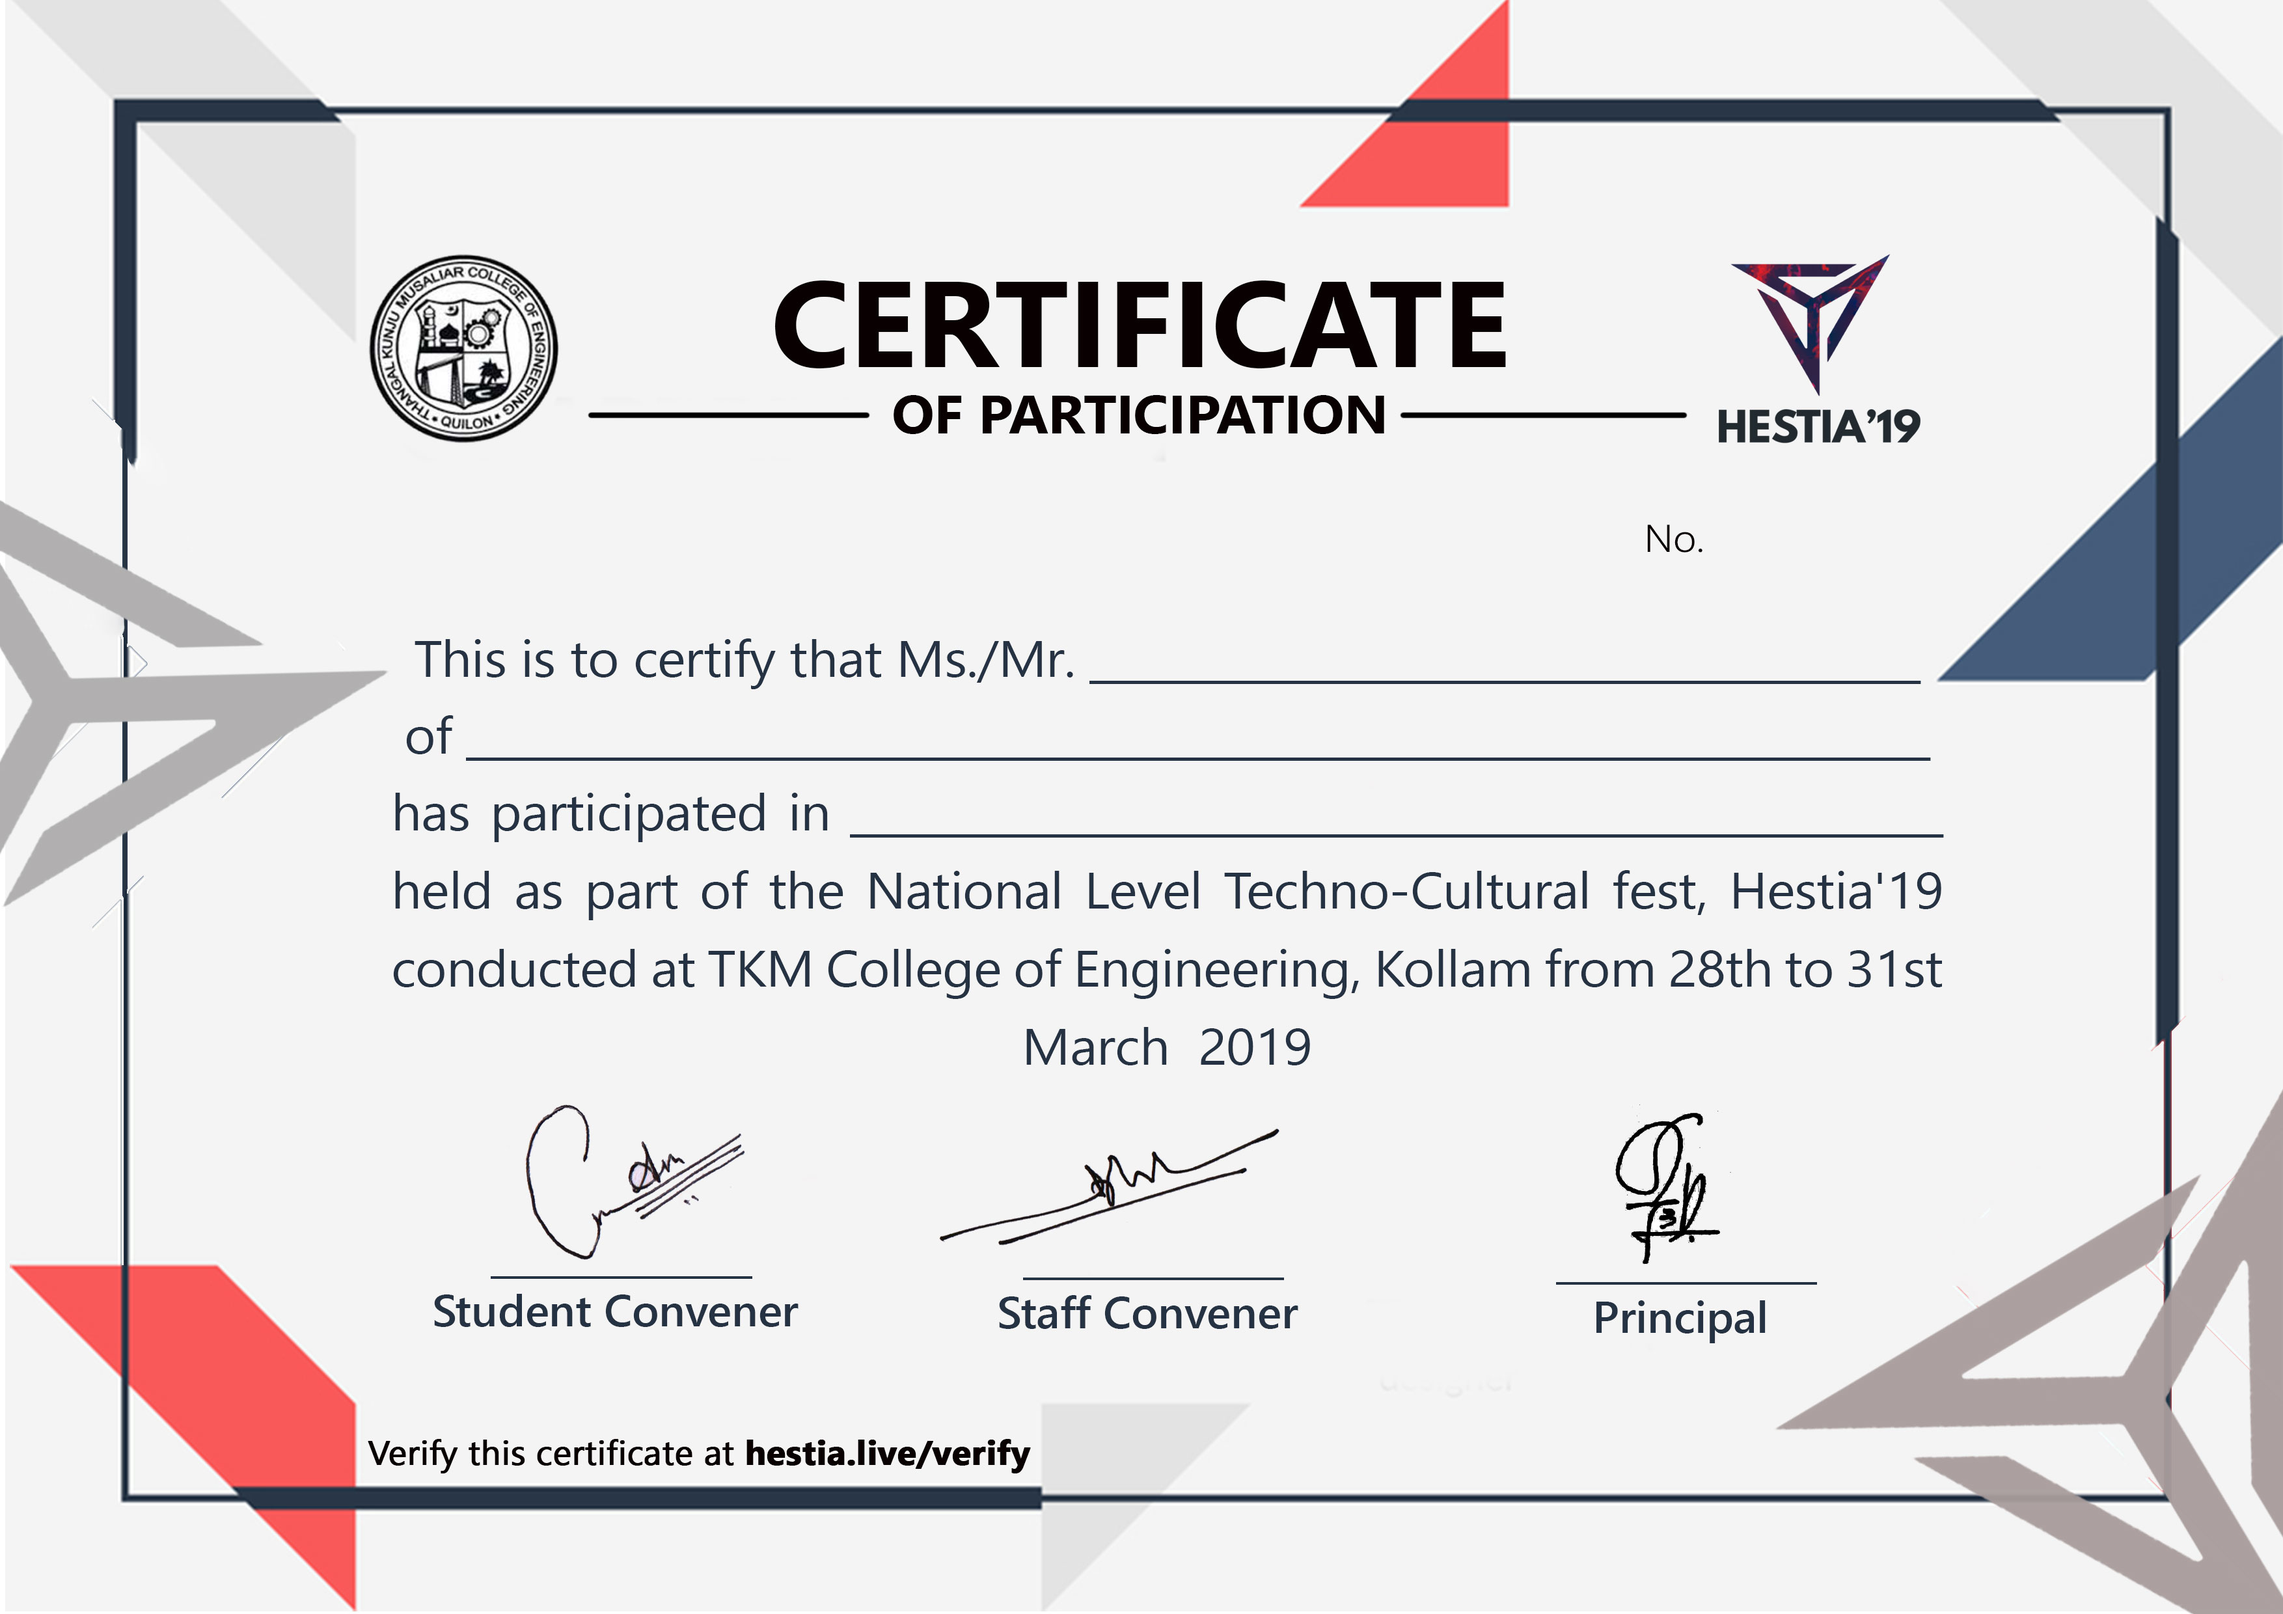
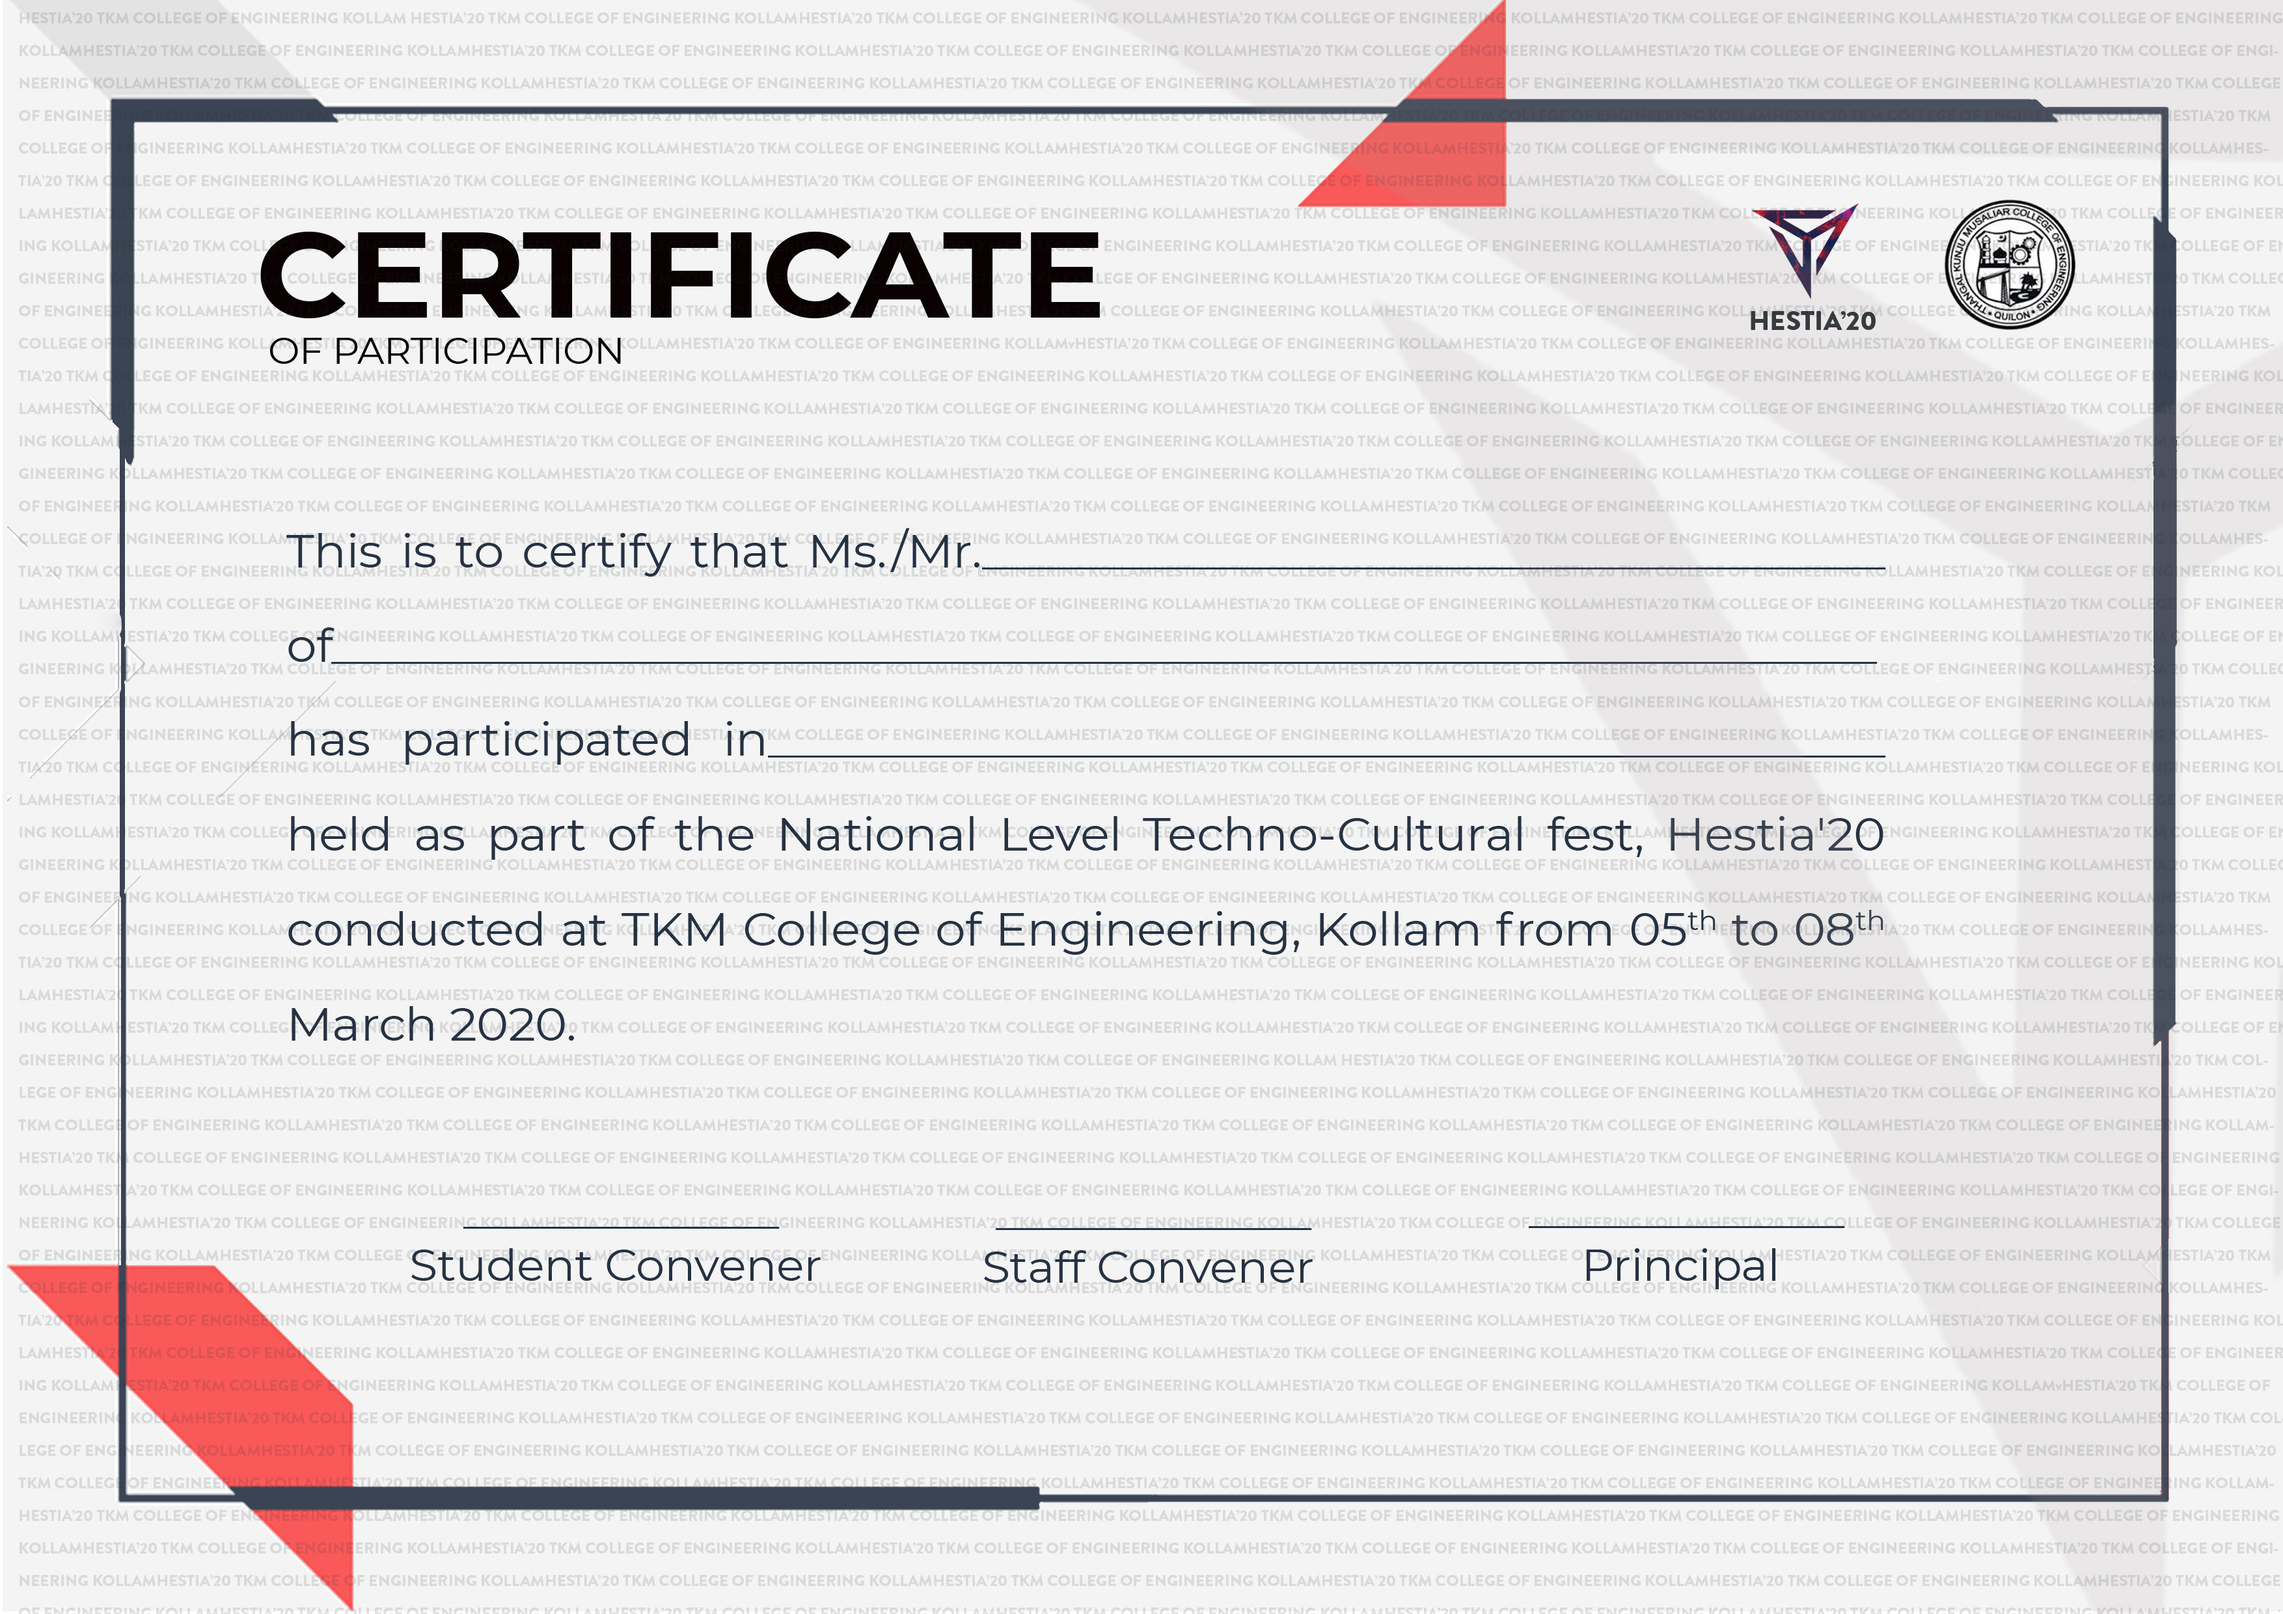
certificate

Changed region(s): [[0.0, 0.0, 1.0, 1.0], [0.9632, 0.0, 1.0, 0.0621]]

diff --git a/application/controllers/Certificate.php b/application/controllers/Certificate.php
@@ -32,6 +32,36 @@ class ZNW_PDF extends TCPDF {
     }
 }
 
+class ZNW_PDFAA extends TCPDF {
+
+    // Page header
+
+    public function Header() {
+
+        // Quelle: http://www.tcpdf.org/examples/example_051.phps
+        // get the current page break margin
+        $bMargin = $this->getBreakMargin();
+        // get current auto-page-break mode
+        $auto_page_break = $this->AutoPageBreak;
+        // disable auto-page-break
+        $this->SetAutoPageBreak(false, 0);
+        // set background image
+        $img_file = 'assets/certificate/appreciation.jpg';
+        $this->Image($img_file, 0, 0,  297,210, '', '', '', false, 300, '', false, false, 0);
+        // restore auto-page-break status
+        $this->SetAutoPageBreak($auto_page_break, $bMargin);
+        // set the starting point for the page content
+        $this->setPageMark();
+    }
+
+    // Page footer
+    public function Footer() {
+
+        // no special footer
+
+    }
+}
+
 class Certificate extends CI_Controller {
 
     public function Verify(){
@@ -108,21 +138,102 @@ $data['msg']="";
             $pdf->AddPage('L');
             $pdf->SetXY(0, 89);
             $html1="";
-            $html="<h3>$row->fullname</h3>";
+            $fullname="<h3>$row->fullname</h3>";
             $htmlcollege="<h3>$row->college</h3>";
             $htmlevent="<h3>$row->title</h3>";
-           $html1="<h3>H/19/$row->reg_id</h3>";
+           $certno="<h3>No.: H/20/$row->reg_id</h3>";
           //  $pdf->writeHTML($html, true, false, true, false, '');
-            $pdf->writeHTMLCell(380, 10, 142, 83, $html, 0, 1, 0, true, '', true);
-            $pdf->writeHTMLCell(380, 10, 62, 93, $htmlcollege, 0, 1, 0, true, '', true);
-            $pdf->writeHTMLCell(380, 10, 110, 103, $htmlevent, 0, 1, 0, true, '', true);
+            $pdf->writeHTMLCell(380, 10, 130, 68, $fullname, 0, 1, 0, true, '', true);
+            $pdf->writeHTMLCell(380, 10, 47, 81, $htmlcollege, 0, 1, 0, true, '', true);
+            $pdf->writeHTMLCell(380, 10, 102, 93, $htmlevent, 0, 1, 0, true, '', true);
 
-            $pdf->writeHTMLCell(300, 10, 223, 67, $html1, 0, 1, 0, true, '', true);
+            $pdf->writeHTMLCell(300, 10, 226, 47, $certno, 0, 1, 0, true, '', true);
 
             //$pdf->write2DBarcode("www.hestia.live/certificate/".$row->certificate_no, 'QRCODE,L', 20, 158, 30, 30, $style, 'N');
 
         }
 
-        $pdf->Output('Certificate.pdf', 'D');
+        $pdf->Output('Certificate.pdf', 'I');
+    }
+        public function Appreciation($eventid=-1)
+    {
+
+        //  header('Content-Type: application/pdf');
+        require_once('./application/libraries/Classes/TCPDF/tcpdf.php');
+
+// New PDF doc with class ZNW_PDF (Tools / Libraries / Project / znw_header_footer.php)
+// Header with background image (A4)
+        $pdf = new ZNW_PDFAA(PDF_PAGE_ORIENTATION, PDF_UNIT, PDF_PAGE_FORMAT, true, 'UTF-8', false);
+
+// set document information
+        $pdf->SetCreator(PDF_CREATOR);
+        $pdf->SetAuthor('HESTIA TKMCE');
+        $pdf->SetTitle('Certificate of Appreciation');
+        $pdf->SetSubject('Certificate');
+        $pdf->SetKeywords('Hestia 20 Appreciation Certificate');
+
+
+        //
+//        $pdf = new TCPDF(PDF_PAGE_ORIENTATION, PDF_UNIT, PDF_PAGE_FORMAT, true, 'UTF-8', false);
+//        $pdf->SetCreator(PDF_CREATOR);
+//        $pdf->SetTitle('Application Form');
+        $this->load->model('report_model');
+        if(isset($_SESSION['email'])){
+
+        }else{
+            return;
+        }
+        $records=$this->report_model->get_all_registrations_appreciation_certificate($_SESSION['email'], $eventid);
+       if(!$records){
+           echo "norec";
+           return;
+       }
+        $pdf->SetLeftMargin(100);
+        $pdf->SetTopMargin(80);
+        $pdf->SetProtection(array('modify'));
+
+        $style = array(
+            'border' => 1,
+            'padding' => 'auto',
+            'fgcolor' =>  array(0,0,0),
+            'bgcolor' => array(255,255,255)
+        );
+
+//        $pdf->setPrintHeader(false);
+//        $pdf->setPrintFooter(false);
+//        $img_file = 'uploads/certificate_bg.png';
+//        $pdf->Image($img_file, 10, 10, 210, 297, '', '', '', false, 300, '', false, false, 0);
+        foreach ($records as $row){
+            $pdf->AddPage('L');
+            $pdf->SetXY(0, 89);
+            $html1="";
+            $fullname="<h3><center>$row->fullname</center></h3>";
+            $htmlcollege="<h3>$row->college</h3>";
+            $htmlevent="<h3>$row->title</h3>";
+           $certno="<h3>No.: H/20/$row->reg_id</h3>";
+           $position="";
+           switch($row->participated){
+               case "101":$position="First";
+                                      break;
+               case "102":$position="Second";
+                                      break;
+               case "103":$position="Third";
+                                      break;
+                                  default :return;
+           }
+           $poshtml="<h3>$position</h3>";
+          //  $pdf->writeHTML($html, true, false, true, false, '');
+            $pdf->writeHTMLCell(380, 10, 118, 82, $fullname, 0, 1, 0, true, '', true);
+            $pdf->writeHTMLCell(380, 10, 118, 100, $htmlcollege, 0, 1, 0, true, '', true);
+            $pdf->writeHTMLCell(380, 10, 162, 109, $htmlevent, 0, 1, 0, true, '', true);
+            $pdf->writeHTMLCell(380, 10, 103, 109, $poshtml, 0, 1, 0, true, '', true);
+
+            $pdf->writeHTMLCell(300, 10, 224, 38, $certno, 0, 1, 0, true, '', true);
+
+            //$pdf->write2DBarcode("www.hestia.live/certificate/".$row->certificate_no, 'QRCODE,L', 20, 158, 30, 30, $style, 'N');
+
+        }
+
+        $pdf->Output('Certificate.pdf', 'I');
     }
 }

diff --git a/application/views/static/user_event.php b/application/views/static/user_event.php
@@ -293,11 +293,18 @@
                    }
 
                    if($row['certificate']==1){
-                       echo "<a href='#'  class='btn btn-success btn-result btn-custom' onclick='viewcertificate(".$row['event_id'].")'>Download Certificate &nbsp;<i class='material-icons' style='position:relative;top:4px;font-size: 18px;' >arrow_downward</i></a><br/><br/>";
+                       echo "<a href='#'  class='btn btn-success btn-result btn-custom' onclick='viewcertificate(".$row['event_id'].",0)'>Download Certificate &nbsp;<i class='material-icons' style='position:relative;top:4px;font-size: 18px;' >arrow_downward</i></a><br/><br/>";
 
 
-                   }else if($row['certificate']==0)
-                       echo "<a href='".base_url("myprofile")."'  class='btn btn-warning btn-result'>Verify Profile To Download Certificate &nbsp;<i class='fas fa-check'></i></a>";
+                   }else if($row['certificate']==0){
+                                              echo "<a href='".base_url("myprofile")."'  class='btn btn-warning btn-result'>Verify Profile To Download Certificate &nbsp;<i class='fas fa-check'></i></a>";
+
+                   }else if(in_array($row['certificate'], [101,102,103])){
+                                              echo "<a href='#'  class='btn btn-success btn-result btn-custom' onclick='viewcertificate(".$row['event_id'].",1)'>Download Certificate &nbsp;<i class='material-icons' style='position:relative;top:4px;font-size: 18px;' >arrow_downward</i></a><br/><br/>";
+
+                   }else{
+                       
+                   }
 
                    ?>
 
@@ -333,6 +340,19 @@
 	<script src="<?=  base_url("assets/main/")?>js/home/anime.min.js"></script>
 	<script src="<?=  base_url("assets/main/")?>js/home/main.js"></script>
 	<script>
+             function viewcertificate(elem,ctype){
+
+          var url="<?=base_url()?>";
+          if(ctype==0){
+                        url=url+"Certificate/Get/"+elem;
+
+    }else if(ctype==1){
+        
+                  url=url+"Certificate/Appreciation/"+elem;
+
+    }
+          window.location=url;
+      }
 		(function() {
 			var navEl = document.querySelector("nav.Mobilemenu"),
 				revealer = new RevealFx(navEl),

diff --git a/application/models/Report_model.php b/application/models/Report_model.php
@@ -373,6 +373,13 @@ class Report_model extends CI_Model {
        }
 
     }
+    public function get_all_registrations_appreciation_certificate($mail="",$eid=""){
+       if($mail!="" && $eid!=""){
+           $query=$this->db->query("select upper(e.event_id) event_id,r.participated, upper(e.title) title ,upper(u.fullname) fullname ,r.reg_id,upper(u.college) college from events e, registration r,users u where e.event_id=r.event_id and r.member_email=u.email and u.email='".$mail."' and u.profile_completed=1 and r.participated in(101,102,103) and  r.event_id=".$eid);
+           return  $query->result();
+       }
+
+    }
     public function get_single_certificate($certificateno){
         $certificateno = $this->security->xss_clean($certificateno);
         $query=$this->db->query("select e.event_id, e.title ,u.fullname,u.college ,r.reg_id from events e, registration r,users u where e.event_id=r.event_id and r.member_email=u.email and r.reg_id='".$certificateno."'");
@@ -474,9 +481,9 @@ class Report_model extends CI_Model {
             if($iscomplete->num_rows()==1){
                 return 0;
             }else{
-                $ispart=$this->db->query("SELECT * from registration where event_id='$eid' and member_email='$mail' and participated=1");
+                $ispart=$this->db->query("SELECT participated from registration where event_id='$eid' and member_email='$mail' and participated in(1,101,102,103)");
                 if($ispart->num_rows()==1){
-                    return 1;
+                    return $ispart->row()->participated;
                 }else {
                     return -2;
                 }
